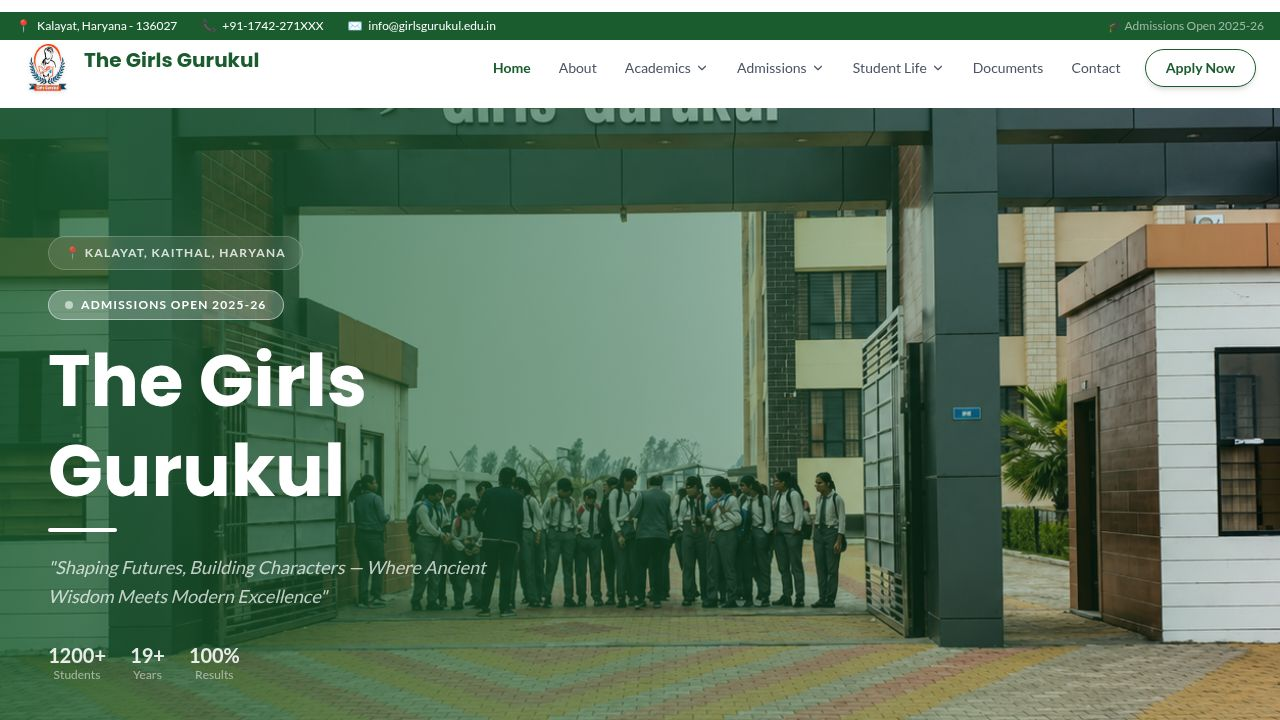
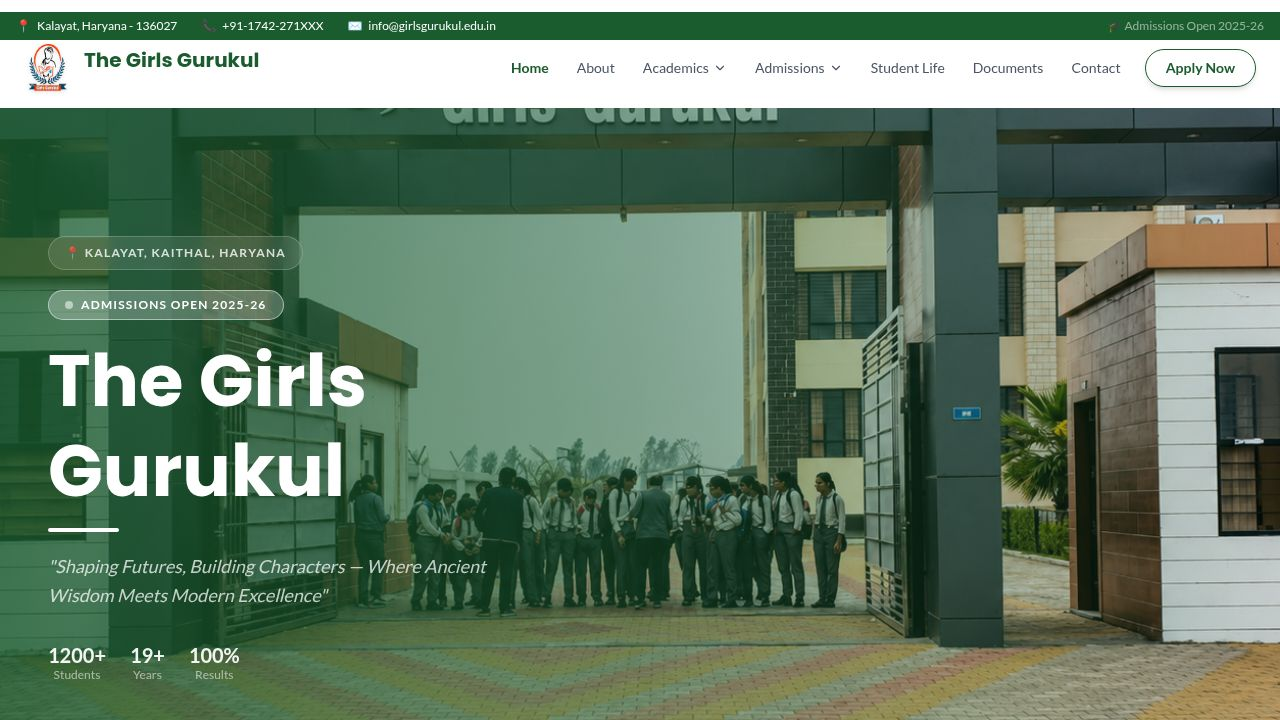
Update website navigation, faculty sections, and contact map
Refactors Navbar component with improved hover states and dropdown removal, adds three new sections to the Faculty page (Teaching Philosophy, Professional Development, Awards & Recognition), replaces the Circulars section with Holiday & Exam Schedule in Documents.tsx, and updates the Contact page with an embedded Google Map for the school's location.

Replit-Commit-Author: Agent
Replit-Commit-Session-Id: 3940c169-6c23-4ee2-b6e3-a9dcd87496f0
Replit-Commit-Checkpoint-Type: full_checkpoint
Replit-Commit-Event-Id: 40370239-2bec-48f4-851b-d8d2a4c417b0
Replit-Commit-Screenshot-Url: https://storage.googleapis.com/screenshot-production-us-central1/552cbfad-f595-46e5-9030-4c036f9c898f/3940c169-6c23-4ee2-b6e3-a9dcd87496f0/Hjg1Spd
Replit-Helium-Checkpoint-Created: true

Changed region(s): [[0.0312, 0.7639, 0.375, 0.8556], [0.375, 0.0917, 0.75, 0.1222]]

diff --git a/artifacts/girls-gurukul/src/pages/Documents.tsx b/artifacts/girls-gurukul/src/pages/Documents.tsx
@@ -1,7 +1,6 @@
 import { useEffect } from "react";
 import { motion } from "framer-motion";
-import { Download, FileText, AlertCircle, Bell, BookOpen, Award, Shield } from "lucide-react";
-import { Button } from "@/components/ui/button";
+import { Download, FileText, BookOpen, Award, Shield } from "lucide-react";
 import SectionHeader from "@/components/SectionHeader";
 
 const fadeUp = {
@@ -61,15 +60,6 @@ const downloadCategories = [
   },
 ];
 
-const circulars = [
-  { date: "June 5, 2025", title: "Summer Vacation Homework Instructions", urgent: false },
-  { date: "May 28, 2025", title: "Annual Examination Timetable Class IX & XI", urgent: true },
-  { date: "May 20, 2025", title: "Parent-Teacher Meeting – June 25, 2025", urgent: false },
-  { date: "May 15, 2025", title: "Fee Submission Reminder – Last Date June 30", urgent: true },
-  { date: "May 10, 2025", title: "Sports Day Registration Open – June 20 Deadline", urgent: false },
-  { date: "April 30, 2025", title: "New Academic Year 2025-26 School Uniform Guidelines", urgent: false },
-  { date: "April 20, 2025", title: "Digital Portal Login Instructions for Parents", urgent: false },
-];
 
 const syllabus = [
   { class: "Nursery – UKG", board: "School Curriculum", subjects: 6, download: true },
@@ -194,29 +184,53 @@ export default function Documents() {
         </div>
       </section>
 
-      {/* CIRCULARS */}
+      {/* HOLIDAY LIST */}
       <section className="py-20 bg-white">
         <div className="container mx-auto px-4">
-          <SectionHeader badge="Notices" title="Latest Circulars & Notices" subtitle="Stay updated with the latest school notifications and announcements." />
-          <div className="max-w-3xl mx-auto space-y-3">
-            {circulars.map(({ date, title, urgent }, i) => (
-              <motion.div key={title} custom={i} variants={fadeUp} initial="hidden" whileInView="visible" viewport={{ once: true }}
-                className="flex items-start gap-4 p-4 bg-gray-50 rounded-2xl border border-gray-100 hover:border-[#ffffff]/30 hover:shadow-sm transition-all group">
-                <div className={`flex-shrink-0 w-10 h-10 rounded-xl flex items-center justify-center ${urgent ? "bg-red-50" : "bg-[#ffffff]/10"}`}>
-                  {urgent ? <AlertCircle size={18} className="text-red-500" /> : <Bell size={18} className="text-[#ffffff]" />}
-                </div>
-                <div className="flex-1">
-                  <div className="flex items-center gap-2 mb-1">
-                    {urgent && <span className="text-xs bg-red-100 text-red-600 font-bold px-2 py-0.5 rounded-full">URGENT</span>}
-                    <span className="text-xs text-gray-400">{date}</span>
+          <SectionHeader badge="Academic Calendar" title="Holiday & Exam Schedule 2025-26" subtitle="Important dates, holidays, examinations and school events for the academic year." />
+          <div className="max-w-4xl mx-auto grid md:grid-cols-2 gap-8">
+            <div>
+              <h3 className="font-serif font-bold text-[#1a5c2e] text-lg mb-4 flex items-center gap-2">📅 Public Holidays</h3>
+              <div className="space-y-2">
+                {[
+                  { date: "15 Aug 2025", title: "Independence Day", type: "National" },
+                  { date: "02 Oct 2025", title: "Gandhi Jayanti", type: "National" },
+                  { date: "02 Nov 2025", title: "Diwali", type: "Festival" },
+                  { date: "25 Dec 2025", title: "Christmas", type: "Festival" },
+                  { date: "26 Jan 2026", title: "Republic Day", type: "National" },
+                  { date: "14 Mar 2026", title: "Holi", type: "Festival" },
+                ].map(({ date, title, type }) => (
+                  <div key={title} className="flex items-center justify-between p-3 bg-gray-50 rounded-xl border border-gray-100 hover:border-[#1a5c2e]/20 transition-all">
+                    <div className="flex items-center gap-3">
+                      <span className="text-xs font-bold text-[#1a5c2e] bg-[#1a5c2e]/10 px-2 py-0.5 rounded-full w-24 text-center">{date}</span>
+                      <span className="text-sm font-medium text-gray-700">{title}</span>
+                    </div>
+                    <span className="text-xs text-gray-400">{type}</span>
                   </div>
-                  <p className="text-gray-700 font-medium text-sm group-hover:text-[#1a5c2e] transition-colors">{title}</p>
-                </div>
-                <button onClick={() => handleDownload(title)} className="flex-shrink-0 w-8 h-8 rounded-lg bg-white border border-gray-200 flex items-center justify-center hover:bg-[#1a5c2e] hover:border-[#1a5c2e] transition-all group/btn">
-                  <Download size={14} className="text-gray-400 group-hover/btn:text-white" />
-                </button>
-              </motion.div>
-            ))}
+                ))}
+              </div>
+            </div>
+            <div>
+              <h3 className="font-serif font-bold text-[#1a5c2e] text-lg mb-4 flex items-center gap-2">📝 Examination Schedule</h3>
+              <div className="space-y-2">
+                {[
+                  { date: "Jul 2025", title: "Unit Test – I (All Classes)", type: "Exam" },
+                  { date: "Sep 2025", title: "Half-Yearly Examinations", type: "Exam" },
+                  { date: "Nov 2025", title: "Unit Test – II (All Classes)", type: "Exam" },
+                  { date: "Dec 2025", title: "Pre-Board Examinations (IX–XII)", type: "Exam" },
+                  { date: "Feb 2026", title: "Annual Examinations (I–VIII)", type: "Exam" },
+                  { date: "Mar 2026", title: "CBSE Board Examinations (X, XII)", type: "Board" },
+                ].map(({ date, title, type }) => (
+                  <div key={title} className="flex items-center justify-between p-3 bg-gray-50 rounded-xl border border-gray-100 hover:border-[#1a5c2e]/20 transition-all">
+                    <div className="flex items-center gap-3">
+                      <span className="text-xs font-bold text-white bg-[#1a5c2e] px-2 py-0.5 rounded-full w-24 text-center">{date}</span>
+                      <span className="text-sm font-medium text-gray-700">{title}</span>
+                    </div>
+                    <span className={`text-xs font-semibold ${type === "Board" ? "text-red-500" : "text-gray-400"}`}>{type}</span>
+                  </div>
+                ))}
+              </div>
+            </div>
           </div>
         </div>
       </section>

diff --git a/artifacts/girls-gurukul/src/pages/Faculty.tsx b/artifacts/girls-gurukul/src/pages/Faculty.tsx
@@ -145,6 +145,80 @@ export default function Faculty() {
         </div>
       </section>
 
+      {/* TEACHING PHILOSOPHY */}
+      <section className="py-20 bg-white">
+        <div className="container mx-auto px-4">
+          <SectionHeader badge="Our Approach" title="Teaching Philosophy" subtitle="We believe in a student-centred approach that nurtures curiosity, critical thinking and character." />
+          <div className="grid md:grid-cols-3 gap-6 max-w-5xl mx-auto">
+            {[
+              { icon: "🎯", title: "Student-Centred Learning", desc: "Every lesson is designed keeping individual student's pace, learning style and potential in mind. No student is left behind." },
+              { icon: "🔬", title: "Inquiry-Based Education", desc: "We encourage students to ask questions, explore concepts and discover answers through hands-on experiments and activities." },
+              { icon: "🌱", title: "Holistic Development", desc: "Beyond academics, we focus on emotional intelligence, social skills, physical fitness and moral values." },
+              { icon: "💬", title: "Open Communication", desc: "Teachers maintain open, respectful communication with students and parents to ensure transparency and trust." },
+              { icon: "🏆", title: "Excellence & Accountability", desc: "High expectations for both teachers and students, with regular self-assessment and accountability mechanisms." },
+              { icon: "🤝", title: "Collaborative Spirit", desc: "Team teaching, peer learning and collaborative projects prepare students for real-world teamwork." },
+            ].map(({ icon, title, desc }, i) => (
+              <motion.div key={title} custom={i} variants={fadeUp} initial="hidden" whileInView="visible" viewport={{ once: true }}
+                className="bg-gray-50 rounded-2xl p-6 border border-gray-100 hover:shadow-lg transition-all card-hover">
+                <div className="text-3xl mb-3">{icon}</div>
+                <h3 className="font-serif font-bold text-[#1a5c2e] mb-2">{title}</h3>
+                <p className="text-gray-500 text-sm leading-relaxed">{desc}</p>
+              </motion.div>
+            ))}
+          </div>
+        </div>
+      </section>
+
+      {/* PROFESSIONAL DEVELOPMENT */}
+      <section className="py-20 bg-[#1a5c2e] relative overflow-hidden">
+        <div className="absolute inset-0 hero-pattern" />
+        <div className="relative container mx-auto px-4">
+          <SectionHeader badge="Growth" title="Professional Development" subtitle="Our faculty continuously upgrades their skills through workshops, training and research." light />
+          <div className="grid md:grid-cols-2 lg:grid-cols-4 gap-5">
+            {[
+              { icon: "📚", title: "Annual Training Workshop", desc: "3-day workshop every summer on pedagogy, technology and student counselling." },
+              { icon: "🖥", title: "Digital Teaching Tools", desc: "All teachers trained in smart board technology, e-learning platforms and digital assessment." },
+              { icon: "🎓", title: "Higher Education Support", desc: "School supports teachers pursuing M.Ed., Ph.D. and specialised certifications." },
+              { icon: "🌐", title: "CBSE Orientation Programs", desc: "Regular participation in CBSE-organised Sahodaya cluster workshops and seminars." },
+            ].map(({ icon, title, desc }, i) => (
+              <motion.div key={title} custom={i} variants={fadeUp} initial="hidden" whileInView="visible" viewport={{ once: true }}
+                className="glass-card rounded-2xl p-6 text-center">
+                <div className="text-3xl mb-3">{icon}</div>
+                <h3 className="font-serif font-bold text-white mb-2">{title}</h3>
+                <p className="text-white/60 text-sm leading-relaxed">{desc}</p>
+              </motion.div>
+            ))}
+          </div>
+        </div>
+      </section>
+
+      {/* AWARDS & RECOGNITION */}
+      <section className="py-20 bg-gray-50">
+        <div className="container mx-auto px-4">
+          <SectionHeader badge="Achievements" title="Faculty Awards & Recognition" subtitle="Our dedicated teachers have been honoured at state and national levels." />
+          <div className="max-w-4xl mx-auto grid md:grid-cols-2 gap-5">
+            {[
+              { icon: "🥇", name: "Mrs. Kavita Sharma", award: "Best Principal Award", org: "Haryana Education Department, 2024", color: "bg-yellow-50 border-yellow-200" },
+              { icon: "🏅", name: "Dr. Rekha Singh", award: "Outstanding Science Teacher", org: "CBSE Regional Award, 2023", color: "bg-blue-50 border-blue-200" },
+              { icon: "🏆", name: "Mrs. Priya Sharma", award: "Best English Teacher Award", org: "Kaithal District Education Board, 2024", color: "bg-green-50 border-green-200" },
+              { icon: "⭐", name: "Mr. Rajesh Kumar", award: "Mathematics Olympiad Mentor Award", org: "NCERT Recognition, 2022", color: "bg-purple-50 border-purple-200" },
+              { icon: "🌟", name: "Mrs. Neha Singh", award: "State Sports Coach Award", org: "Haryana Sports Council, 2023", color: "bg-pink-50 border-pink-200" },
+              { icon: "🎖", name: "Mrs. Sunita Verma", award: "Academic Administration Excellence", org: "CBSE Vice-Principal Award, 2024", color: "bg-amber-50 border-amber-200" },
+            ].map(({ icon, name, award, org, color }, i) => (
+              <motion.div key={name} custom={i} variants={fadeUp} initial="hidden" whileInView="visible" viewport={{ once: true }}
+                className={`flex gap-4 p-5 rounded-2xl border ${color} card-hover hover:shadow-md transition-all`}>
+                <div className="text-3xl flex-shrink-0">{icon}</div>
+                <div>
+                  <h3 className="font-serif font-bold text-[#1a5c2e] mb-0.5">{name}</h3>
+                  <p className="text-gray-700 font-semibold text-sm">{award}</p>
+                  <p className="text-gray-400 text-xs mt-0.5">{org}</p>
+                </div>
+              </motion.div>
+            ))}
+          </div>
+        </div>
+      </section>
+
       {/* JOIN CTA */}
       <section className="py-16 bg-gradient-to-r from-[#1a5c2e] to-[#1a5c2e]/80">
         <div className="container mx-auto px-4 text-center">

diff --git a/artifacts/girls-gurukul/src/components/Navbar.tsx b/artifacts/girls-gurukul/src/components/Navbar.tsx
@@ -29,14 +29,7 @@ const navItems: NavItem[] = [
       { name: "Fee Structure", href: "/fee-structure" },
     ],
   },
-  {
-    name: "Student Life",
-    href: "/gallery",
-    children: [
-      { name: "Gallery", href: "/gallery" },
-      { name: "News & Events", href: "/news-events" },
-    ],
-  },
+  { name: "Student Life", href: "/gallery" },
   { name: "Documents", href: "/documents" },
   { name: "Contact", href: "/contact" },
 ];
@@ -125,7 +118,7 @@ export default function Navbar() {
             <div key={item.href} className="relative">
               {item.children ? (
                 <button
-                  className={`flex items-center gap-1 px-3 py-2 rounded-lg font-medium text-sm transition-all hover:text-[#ffffff] hover:bg-[#1a5c2e]/5 ${
+                  className={`flex items-center gap-1 px-3 py-2 rounded-lg font-medium text-sm transition-all hover:text-[#1a5c2e] hover:bg-[#1a5c2e]/10 ${
                     isActive(item) ? "text-[#1a5c2e] font-semibold" : "text-gray-600"
                   }`}
                   onMouseEnter={() => setOpenDropdown(item.name)}
@@ -147,7 +140,7 @@ export default function Navbar() {
               ) : (
                 <Link
                   href={item.href}
-                  className={`relative block px-3 py-2 rounded-lg font-medium text-sm transition-all hover:text-[#ffffff] hover:bg-[#1a5c2e]/5 ${
+                  className={`relative block px-3 py-2 rounded-lg font-medium text-sm transition-all hover:text-[#1a5c2e] hover:bg-[#1a5c2e]/10 ${
                     isActive(item) ? "text-[#1a5c2e] font-semibold" : "text-gray-600"
                   }`}
                 >
@@ -178,8 +171,8 @@ export default function Navbar() {
                         <Link
                           key={child.href}
                           href={child.href}
-                          className={`block px-4 py-2.5 text-sm transition-colors hover:bg-[#1a5c2e]/5 hover:text-[#ffffff] ${
-                            location === child.href ? "text-[#ffffff] font-medium bg-[#1a5c2e]/5" : "text-gray-700"
+                          className={`block px-4 py-2.5 text-sm transition-colors hover:bg-[#1a5c2e]/10 hover:text-[#1a5c2e] ${
+                            location === child.href ? "text-[#1a5c2e] font-medium bg-[#1a5c2e]/10" : "text-gray-700"
                           }`}
                         >
                           {child.name}
@@ -244,7 +237,7 @@ export default function Navbar() {
                               <Link
                                 key={child.href}
                                 href={child.href}
-                                className="block py-2 px-3 text-sm text-gray-600 hover:text-[#ffffff]"
+                                className="block py-2 px-3 text-sm text-gray-600 hover:text-[#1a5c2e]"
                               >
                                 {child.name}
                               </Link>
@@ -257,7 +250,7 @@ export default function Navbar() {
                     <Link
                       href={item.href}
                       className={`block py-2.5 px-3 rounded-lg font-medium transition-colors ${
-                        isActive(item) ? "text-[#ffffff] bg-[#1a5c2e]/5" : "text-[#1a5c2e] hover:bg-gray-50"
+                        isActive(item) ? "text-[#1a5c2e] font-semibold bg-[#1a5c2e]/10" : "text-[#1a5c2e] hover:bg-gray-50"
                       }`}
                     >
                       {item.name}

diff --git a/artifacts/girls-gurukul/src/pages/Contact.tsx b/artifacts/girls-gurukul/src/pages/Contact.tsx
@@ -110,11 +110,11 @@ export default function Contact() {
                 <h2 className="font-serif font-bold text-3xl text-[#1a5c2e]">Find Us on the Map</h2>
                 <div className="h-0.5 w-16 bg-[#ffffff] rounded-full mt-3" />
               </div>
-              <div className="rounded-3xl overflow-hidden shadow-lg h-72 bg-gray-200 border border-gray-200 relative">
+              <div className="rounded-3xl overflow-hidden shadow-lg h-80 bg-gray-200 border border-gray-200 relative">
                 <iframe
-                  src="https://www.google.com/maps/embed?pb=!1m18!1m12!1m3!1d3463.4!2d76.34!3d29.79!2m3!1f0!2f0!3f0!3m2!1i1024!2i768!4f13.1!3m3!1m2!1s0x0%3A0x0!2zKalayat+Kaithal+Haryana!5e0!3m2!1sen!2sin!4v1620000000000!5m2!1sen!2sin"
+                  src="https://maps.google.com/maps?q=The+Girls+Gurukul+Kalayat+Kaithal+Haryana+136027&output=embed&z=15"
                   width="100%" height="100%" style={{ border: 0 }} allowFullScreen loading="lazy"
-                  referrerPolicy="no-referrer-when-downgrade" title="School Location"
+                  referrerPolicy="no-referrer-when-downgrade" title="The Girls Gurukul, Kalayat Location"
                   className="w-full h-full"
                 />
               </div>

diff --git a/artifacts/girls-gurukul/src/index.css b/artifacts/girls-gurukul/src/index.css
@@ -147,7 +147,7 @@
 
 /* Gold gradient text */
 .gold-text {
-  background: linear-gradient(135deg, #ffffff 0%, #f0c040 50%, #ffffff 100%);
+  background: linear-gradient(135deg, #1a5c2e 0%, #2d8c4e 50%, #1a5c2e 100%);
   -webkit-background-clip: text;
   -webkit-text-fill-color: transparent;
   background-clip: text;
